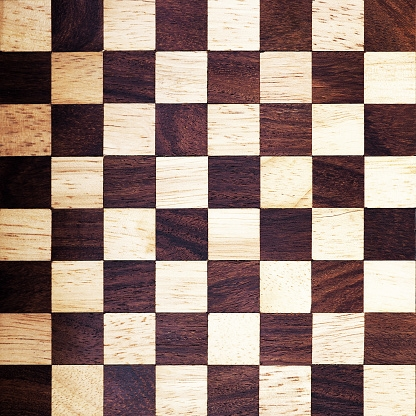
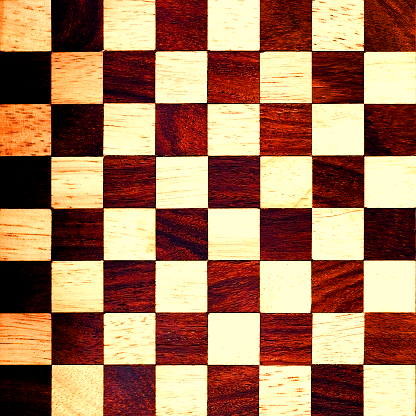
better gfx, but need to figure out antialiasing buffer for this to work.

diff --git a/web.html b/web.html
@@ -17,8 +17,8 @@
          import * as vecMath from './math.mjs';
          import { loadGeometry, geo, geoParams } from "./geometry.mjs";
          import { mesh } from "./mesh.mjs";
-         import { setup, clickMeshes, mouse } from "./gameengine.mjs";
-         import { pieces, square, squares, spawnPieces, taken } from "./gameObjects.mjs";
+         import { setup, clickMeshes, mouse, shaderProgram } from "./gameengine.mjs";
+         import { pieces, square, squares, spawnPieces, taken, game_input } from "./gameObjects.mjs";
          import { loadTexFromImage } from "./texture.mjs";
 
          window.onload = () =>{
@@ -30,7 +30,7 @@
                   loadGeometry("./models/king.obj", "king"),
                   loadGeometry("./models/bishop.obj", "bishop"),
                   loadGeometry("./models/queen.obj", "queen"),
-                  loadTexFromImage("./chesstex.jpg", "uChessTex")
+                  loadTexFromImage("./chesstex.jpg", "uChessTex", shaderProgram)
                ];
 
                return Promise.all(loadCalls).then(()=>{
@@ -90,6 +90,8 @@
          let selected;
          
          canvas.addEventListener('mouseup', (event)=>{
+
+            if(!game_input){return;}
             if(!mouse.dragging){
                const clickedMesh = clickMeshes(event);
                if(clickedMesh){
@@ -133,6 +135,7 @@
 
          let mouseOver;
          canvas.addEventListener("mousemove", (event) =>{
+            if(!game_input){return;}
             if(!selected){return;}
             if(mouse.state == mouse.states.UP){
                const meshUnderMouse = clickMeshes(event);
